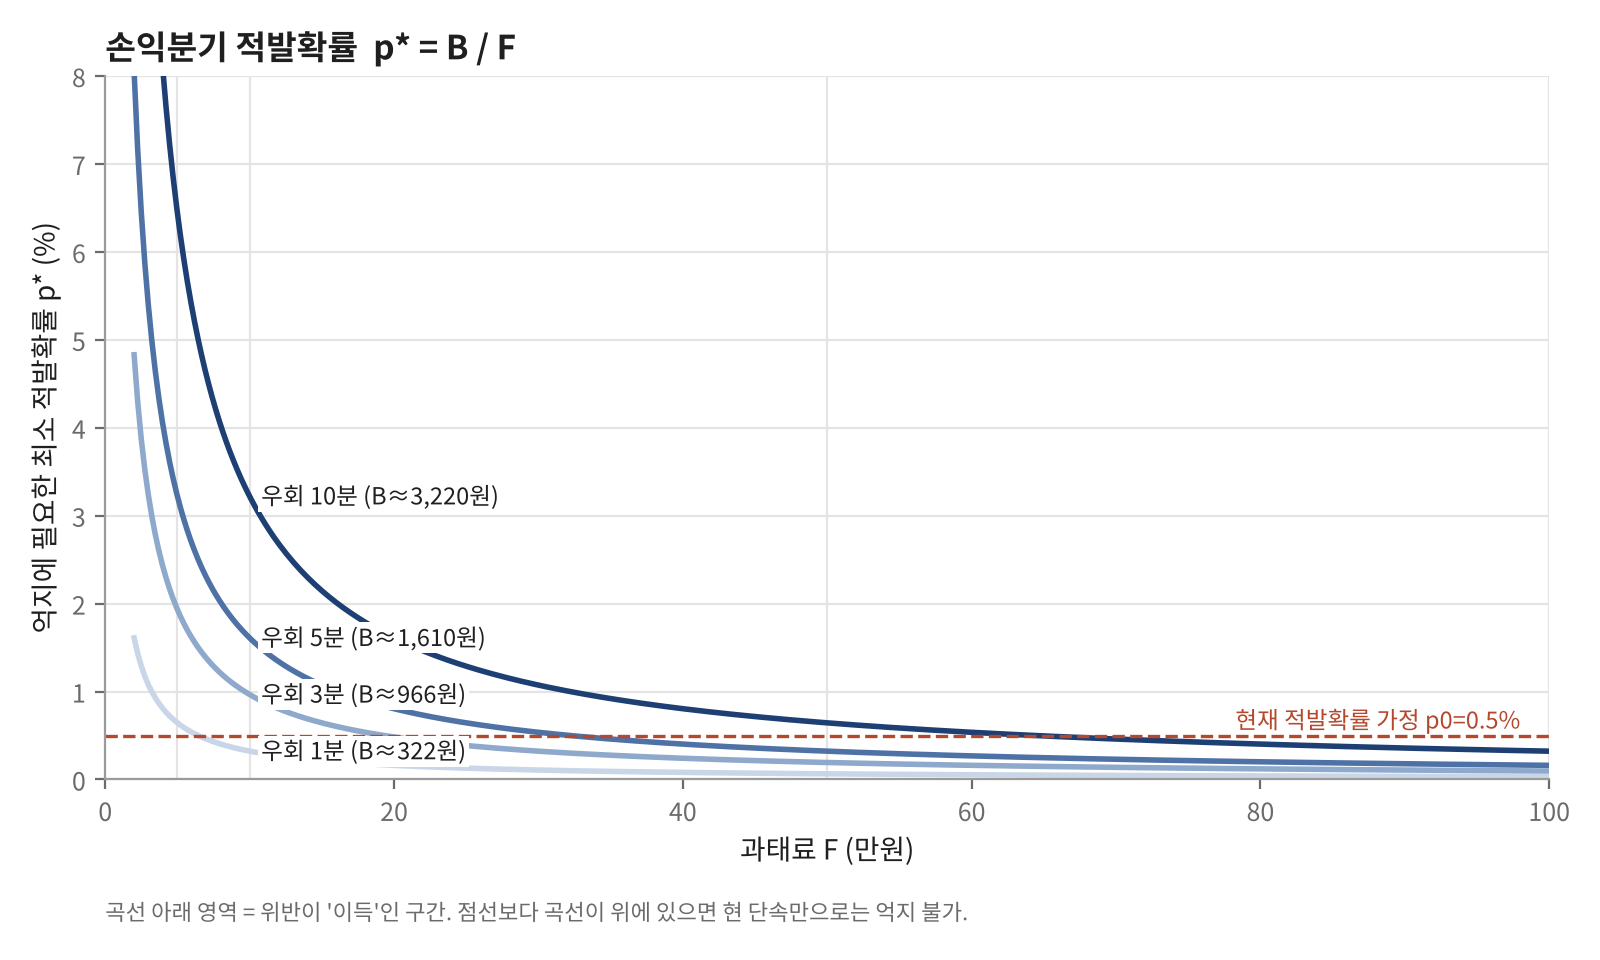
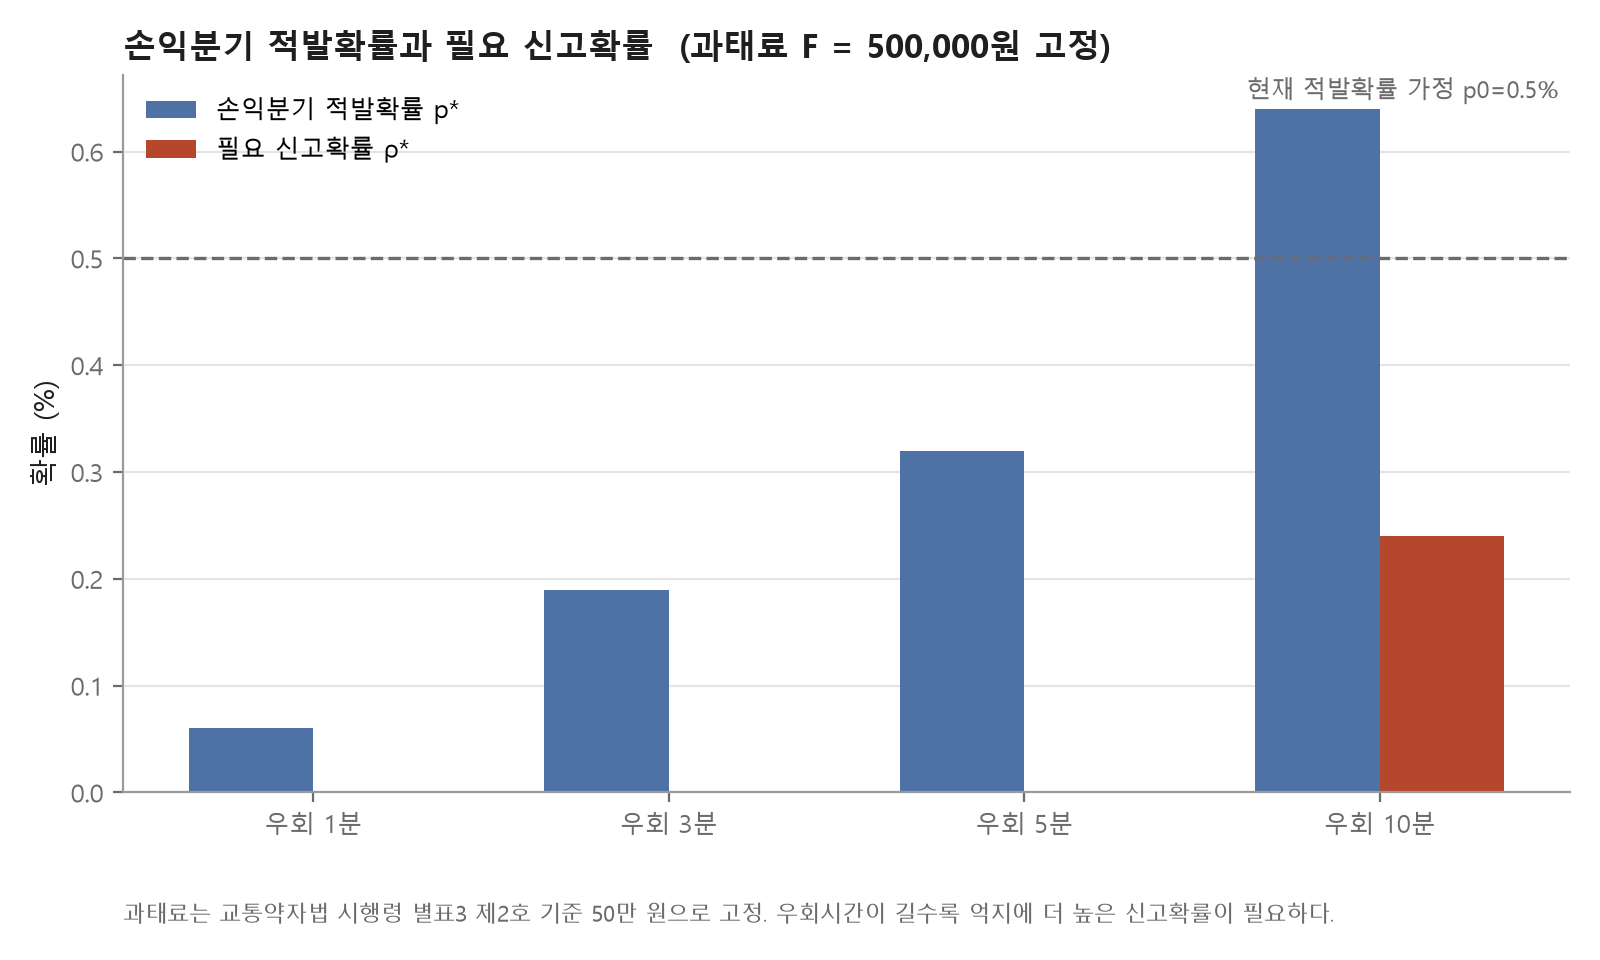
과태료를 교통약자법 시행령 기준 50만원 고정값으로 변경, 포상금 산정에 집중
- deterrence_model.py: FINES 다중 비교 제거, FINE=500000 고정값 사용
- 민감도 히트맵(fig2_sensitivity)을 포상금 비율별 금액 그림(fig2_reward)으로 교체
- reward_table.csv 신규 추가 (포상금 비율별 금액, 참여조건 충족 여부)
- REPORT.md: 법적 근거를 교통약자법 시행령(대통령령 제34871호) 별표3 제2호로 명시,
  결과·해석 섹션을 고정 과태료 기준으로 갱신
- README.md 03 요약 문구 갱신

diff --git a/03_penalty_model/REPORT.md b/03_penalty_model/REPORT.md
@@ -1,27 +1,29 @@
 # 점자블록 침범 과태료·신고포상금 금액 책정 분석
 
-> 기대처벌 모형 + 손익분기·민감도 분석
+> 기대처벌 모형 + 포상금 산정
 
 ## 요약
 
-과태료는 **2차 위반부터 10만 원, 3차 이상 20만 원**, 신고포상금은 **과태료의 20%(건당 2만 원)에 상한을 두는 것**을 권한다. 금액 근거는 모두 실제 국내 사례와 논문이다. 다만 현재 적발확률 0.5%는 가정값이므로, 실제 데이터로 바꿔야 결론이 단단해진다(6장).
+과태료는 **교통약자법 시행령(대통령령 제34871호, 2024.9.15 시행) 별표3 제2호 기준 50만 원**을 고정값으로 쓴다(법 제33조②항 상한 100만 원 이내). 이 저장소는 과태료 금액 산정 자체는 다루지 않고, 50만 원이 주어졌을 때 **신고포상금을 얼마로 정해야 하는지**만 다룬다. 포상금은 **과태료의 20%(건당 10만 원)에 상한을 두는 것**을 권한다. 금액 근거는 실제 국내 사례와 논문이다. 다만 현재 적발확률 0.5%는 가정값이므로, 실제 데이터로 바꿔야 결론이 단단해진다(6장).
 
 ## 1. 분석 목적
 
-- 점자블록 위 킥보드 반납을 억지하려면 과태료와 신고포상금을 얼마로 정해야 하는지 산출한다.
-- 신고포상이 적발확률을 얼마나 올려야 억지력이 생기는지 역산한다.
+- 과태료 50만 원(교통약자법 시행령 기준)이 점자블록 위 킥보드 반납을 억지하기에 충분한지 확인한다.
+- 부족한 경우, 신고포상이 적발확률을 얼마나 올려야 억지력이 생기는지 역산한다.
+- 신고포상금 액수는 얼마로 정해야 신고자가 참여할 유인이 생기는지 산출한다.
 
 ## 2. 금액 책정 기준점 (국내 사례)
 
 | 구분 | 내용 | 활용 |
 |---|---|---|
-| 법정 상한 | 교통약자법 제33조 ②항: 제11조 ②항을 어겨 장애인 보도 이용을 방해하거나 훼손한 자에게 100만 원 이하 과태료 | 과태료 F의 상한 |
-| 수원시 사례 | 2026년 4월 가이드라인 시행. 점자블록 침범 시 최고 50만 원, 연말까지 계도 후 내년 1월부터 부과. 공유 킥보드·자전거는 번호판이 없어 위반자 특정이 어렵다는 이유로 제외 | 단계 구조(1차 계도, 2차부터 과태료) 차용 |
-| 서울 견인료 | PM 견인료 4만 원(경차와 동일), 보관료 30분당 700원 | F 하한 참고 |
-| 대구 견인료 | 2025년 7월 조례 개정으로 8천 원 → 3만 원 상향 | F 하한 참고 |
-| 포상금 비율 | 수원 과태료의 20%, 파주 40%·1인 연 최대 100만 원, 김제 30%, 인천 연수구 1인 월 10건 이내 | 포상금 R = 과태료의 20~40%, 건수 상한 |
+| 법정 상한 | 교통약자법 제33조②항: 제11조②항을 어겨 장애인 보도 이용을 방해하거나 훼손한 자에게 100만 원 이하 과태료 | 과태료 F의 법정 상한 |
+| 과태료 고정값 | 교통약자법 시행령(대통령령 제34871호, 2024.9.15 시행) 별표3 제2호가 이 위반행위의 과태료 부과기준을 50만 원으로 정한다. 전국 공통 기준이며, 공항·철도역·터미널 등 여객시설과 도로에 적용된다 | 이 분석에서 쓰는 과태료 F = 50만 원(고정) |
+| 수원시 사례 | 2026년 4월 교통약자법 과태료 부과 가이드라인 시행. 위 시행령 기준(최고 50만 원)을 그대로 명문화했다. 연말까지 계도 후 내년 1월부터 부과. 공유 킥보드·자전거는 번호판이 없어 위반자 특정이 어렵다는 이유로 제외 | 단계 구조(1차 계도, 2차부터 과태료) 차용 |
+| 서울 견인료 | PM 견인료 4만 원(경차와 동일), 보관료 30분당 700원 | 참고용 (이 분석의 F는 견인료가 아니라 과태료) |
+| 대구 견인료 | 2025년 7월 조례 개정으로 8천 원 → 3만 원 상향 | 참고용 |
+| 포상금 비율 | 수원 과태료의 20%, 파주 40%·1인 연 최대 100만 원, 김제 30%, 인천 연수구 1인 월 10건 이내 (파주·김제·연수구는 쓰레기 불법투기 등 환경 분야 신고포상금 제도이며, PM 전용 제도는 아니다 — 비율 벤치마크로만 참고) | 포상금 R = 과태료의 20~40%, 건수 상한 |
 
-> 수원시 가이드라인의 상한 50만 원은 법률 상한 100만 원과 다르다. 시행령 별표 금액에 따른 것일 수 있으므로, 보고서 제출 전 법제처에서 교통약자법 시행령 별표를 직접 확인한다.
+> 별표3 제2호의 50만 원은 국토교통부 보도자료를 인용한 복수 언론 기사(이투데이, 에이블뉴스 등)로 교차 확인했으나, 시행령 별표 원문은 law.go.kr에서 표 형태(JS 렌더링)로만 제공돼 이번 조사에서 원문 전체를 직접 열람하지는 못했다. 보고서 제출 전 국가법령정보센터에서 별표3 제2호 원문을 한 번 더 확인하는 것을 권한다.
 
 ## 3. 분석 방법 및 원리
 
@@ -62,32 +64,39 @@ $$
 
 ## 4. 분석 결과
 
-### 4-1. 손익분기 적발확률
+### 4-1. 손익분기 적발확률과 필요 신고확률 (과태료 50만 원 고정)
 
-![손익분기 곡선](results/figures/fig1_breakeven.png)
+![손익분기](results/figures/fig1_breakeven.png)
 
-과태료가 오를수록 억지에 필요한 적발확률이 급격히 낮아진다. 곡선이 현재 적발확률 가정(0.5%, 점선)보다 위에 있으면 현 단속만으로는 억지가 안 된다.
+과태료를 50만 원으로 고정하면 위반 이득 B가 상대적으로 작아, 우회 1~5분 구간에서는 손익분기 적발확률 p\*가 현재 적발확률 가정(p0=0.5%)보다 낮다. 이 가정이 맞다면 해당 구간은 추가 신고 없이도 이미 억지 조건을 충족한다. 우회 10분처럼 이득이 큰 경우에만 추가 신고확률(ρ\* 약 0.24%)이 필요하다.
 
-### 4-2. 과태료별 필요 적발확률·신고확률
+| 우회 시간 | 위반 이득 B | 손익분기 p\* | 필요 신고확률 ρ\* |
+|---|---|---|---|
+| 1분 | 322원 | 0.06% | 0%p (기존 단속으로 충분) |
+| 3분 | 966원 | 0.19% | 0%p (기존 단속으로 충분) |
+| 5분 | 1,610원 | 0.32% | 0%p (기존 단속으로 충분) |
+| 10분 | 3,220원 | 0.64% | 0.24%p |
 
-| 과태료 | p\* (3분 우회) | 필요 신고확률 ρ\* | p\* (10분 우회) | 필요 신고확률 ρ\* |
-|---|---|---|---|---|
-| 5만 원 | 1.9% | 2.4% | 6.4% | 10.0% |
-| **10만 원** | **1.0%** | **0.8%** | 3.2% | 4.6% |
-| 20만 원 | 0.5% | 0 (기존 단속으로 충분) | 1.6% | 1.9% |
+전체 결과는 `results/breakeven_table.csv`에 있다.
 
-우회 1·3·5·10분 × 과태료 6단계(3만~100만 원) 전체 결과는 `results/breakeven_table.csv`에 있다.
+### 4-2. 포상금 비율별 금액
 
-### 4-3. 민감도 분석 (적발확률 × 과태료)
+![포상금](results/figures/fig2_reward.png)
 
-![민감도 히트맵](results/figures/fig2_sensitivity.png)
+신고자 참여 최소조건은 약 573원(신고 1건 소요시간 2분의 시간가치를 확정률 0.6으로 나눈 값)이다. 과태료 50만 원 기준으로는 포상금 비율 20%(10만 원)만으로도 이 조건을 크게 상회한다.
 
-칸 안 숫자는 기대비용 p·F, 기준은 우회 3분의 위반 이득 B ≈ 966원이다. 기대비용이 B보다 작으면 억지 실패, B~3B는 경계, 3B 이상이면 확실한 억지로 판정했다.
+| 포상금 비율 | 포상금 금액 | 참여조건 충족 여부 |
+|---|---|---|
+| 20% | 10만 원 | 충족 |
+| 30% | 15만 원 | 충족 |
+| 40% | 20만 원 | 충족 |
+
+전체 결과는 `results/reward_table.csv`에 있다.
 
 ## 5. 결과 해석
 
 1. **현재는 이용자에게 실질적 비용이 거의 없는 구조로 보인다.** 견인료는 업체가 낸다. 업계도 불법 주정차를 해도 이용자는 손해 볼 게 없다고 말한다. 따라서 출발점은 금액보다 **부과 대상**이다. 업체의 반납 기록(GPS·반납 사진)으로 이용자를 특정하면 수원시가 공유 킥보드를 제외한 사유가 해소된다. 이 점이 정책 제안의 핵심 논리다.
-2. **과태료 10만 원이면, 위반 100건 중 1건 정도만 추가로 신고돼도 억지력이 생긴다.** 신고자의 최소 참여 조건은 약 570원(신고 시간 2분 ÷ 확정률 0.6)이므로, 금액보다 신고 경로를 쉽게 만드는 쪽이 효과적이다. 실증 근거도 같은 방향이다.
+2. **과태료가 50만 원으로 고정되면, 가정상 적발확률(p0=0.5%)만으로 이미 대부분의 우회 시나리오(1~5분)에서 억지 조건이 충족된다.** 다만 p0=0.5%는 검증되지 않은 가정값이라는 점에 유의해야 한다(6장). 신고자의 최소 참여조건은 약 570원으로, 포상금 비율 20%(10만 원)만으로도 충분히 넘는다. 즉 포상금의 크기보다 신고 경로를 쉽게 만드는 쪽이 더 중요하다. 실증 근거도 같은 방향이다.
    - 중앙행정기관 104개 신고포상금제 분석: 지급 기준의 까다로움과 홍보는 성과에 유의, 포상금액은 유의하지 않음
    - 환경부 쓰레기투기 포상금 도입 후 신고가 1월 434건 → 3월 1,335건으로 증가, 건당 평균 4만 1천 원 지급
 3. **포상금을 키우면 부작용이 생긴다.** 서울에서는 견인업체가 직접 신고하고 직접 견인한 사례가 있었다. 2003년 교통위반 신고포상제 폐지 후 전문신고꾼이 쓰레기 신고로 옮겨갔다. 따라서 비율은 20%로 하고 **월 건수 상한, 연간 금액 상한, 견인업체·PM 업체 관계자 지급 제외**를 함께 둔다.
@@ -130,6 +139,9 @@ $$
 - [수원시 교통약자법 과태료 부과 가이드라인](https://www.suwon.go.kr/sw-www/deptHome/dep_traffic/traffic01/traffic01_11.jsp)
 - [YTN 수원시 점자블록 과태료](https://www.ytn.co.kr/_ln/0134_202607131221416701)
 - [교통약자법 제33조](https://www.nepla.ai/wiki/교통과-운송/기타/-유권해석-교통약자의-이동편의-증진법-제33조-과태료-jxm9lr7kg9pg)
+- [교통약자의 이동편의 증진법 시행령 (국가법령정보센터)](https://www.law.go.kr/LSW/lsInfoP.do?urlMode=lsInfoP&lsId=010161) — 별표3 제2호, 대통령령 제34871호(2024.9.15 시행)
+- [이투데이 여객시설·도로 장애인보도 방해 과태료 50만원](https://www.etoday.co.kr/news/view/2400413)
+- [에이블뉴스 점자블록 방해·훼손 과태료 50만원](https://www.ablenews.co.kr/news/articleView.html?idxno=214994)
 - [서울신문 PM 견인료](https://m.go.seoul.co.kr/news/2023/11/03/20231103500048)
 - [헤럴드경제 서울 견인 건수](https://mbiz.heraldcorp.com/article/10586607)
 - [매일신문 대구 견인료](https://www.imaeil.com/page/view/2026042714031777920)
@@ -158,6 +170,7 @@ pip install -r requirements.txt
 python 03_penalty_model/src/deterrence_model.py
 ```
 
-- 입력: 없음 (모든 값은 코드 상단 `PARAMS`, `FINES`의 가정값). 원자료 `data/raw/`는 사용하지 않는다.
-- 결과: `03_penalty_model/results/breakeven_table.csv`, `results/figures/fig1_breakeven.png`, `fig2_sensitivity.png`
-- `breakeven_table.csv` 컬럼: `detour_min`(우회 분), `B`(위반 이득, 원), `fine`(과태료, 원), `p_star_pct`(손익분기 적발확률 %), `rho_star_pct`(필요 신고확률 %), `report_mult_vs_p0`(p\*가 현재 p0의 몇 배인지)
+- 입력: 없음 (모든 값은 코드 상단 `PARAMS`, `FINE`의 가정값). 원자료 `data/raw/`는 사용하지 않는다.
+- 결과: `03_penalty_model/results/breakeven_table.csv`, `reward_table.csv`, `results/figures/fig1_breakeven.png`, `fig2_reward.png`
+- `breakeven_table.csv` 컬럼: `detour_min`(우회 분), `B`(위반 이득, 원), `fine`(과태료, 원, 고정값), `p_star_pct`(손익분기 적발확률 %), `rho_star_pct`(필요 신고확률 %), `report_mult_vs_p0`(p\*가 현재 p0의 몇 배인지)
+- `reward_table.csv` 컬럼: `reward_ratio_pct`(포상금 비율 %), `reward_amount`(포상금 금액, 원), `r_min`(신고자 참여 최소조건, 원), `meets_participation`(참여조건 충족 여부), `margin`(포상금과 참여조건의 차이, 원)

diff --git a/README.md b/README.md
@@ -16,7 +16,7 @@
 - **00 주차구역 공백:** 동작구·관악구는 서울 점자블록 사유 견인의 28%를 차지하지만 PM 주차구역은 3%뿐입니다. 점자블록 견인의 39%가 주차구역이 한 곳도 없는 법정동에서 일어났습니다 (신림동 113건, 성내동·내발산동·장지동 각 36건 등).
 - **00 단속 캘린더:** 점자블록 사유 견인의 99.9%가 평일에 처리됩니다. 주말·공휴일에는 보도 단속이 사실상 멈춥니다.
 - **01 재발 주기:** 상습 지번 175곳에서 견인 후 재발까지 중앙값 **6일**, **14일 안에 80%** 가 다시 견인됩니다. 견인이 쌓여도 재발 간격은 길어지지 않습니다.
-- **03 금액 책정:** 과태료 **2차 위반부터 10만 원, 3차 이상 20만 원**, 신고포상금 **과태료의 20%(건당 2만 원)에 상한**을 권합니다. 과태료 10만 원이면 위반 100건 중 1건만 추가로 신고돼도 억지력이 생깁니다.
+- **03 금액 책정:** 과태료는 **교통약자법 시행령 별표3 기준 50만 원**을 고정값으로 쓰고, 신고포상금 **과태료의 20%(건당 10만 원)에 상한**을 권합니다. 가정상 적발확률(0.5%)만으로 대부분의 우회 시나리오에서 이미 억지 조건이 충족됩니다.
 
 ## 폴더 구조
 
@@ -46,7 +46,7 @@
 └── 03_penalty_model/
     ├── REPORT.md
     ├── src/deterrence_model.py     # 기대처벌 모형 (원자료 미사용, 가정값)
-    └── results/                    # breakeven_table.csv, figures/
+    └── results/                    # breakeven_table.csv, reward_table.csv, figures/
 ```
 
 ## 원자료
